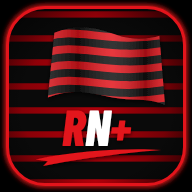
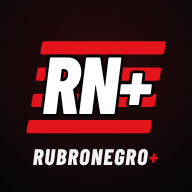
Ícone novo: RN+ sobre faixas vermelhas, com RUBRONEGRO+ embaixo
Claude-Session: https://claude.ai/code/session_01KURSQmz2BHfMakW4thM8Jz

diff --git a/sw.js b/sw.js
@@ -1,5 +1,5 @@
 // RubroNegro+ — permite abrir o app mesmo sem internet (mostra a última lista baixada).
-const VERSAO = 'flafan-v59';
+const VERSAO = 'flafan-v60';
 const ARQUIVOS = ['./', 'index.html', 'styles.css', 'app.js', 'manifest.webmanifest', 'icons/icon-192.png', 'icons/icon-512.png',
   'fonts/inter-latin-variavel.woff2', 'fonts/barlow-latin-400-normal.woff2', 'fonts/barlow-latin-500-normal.woff2', 'fonts/barlow-latin-600-normal.woff2', 'fonts/barlow-latin-700-normal.woff2',
   'fonts/barlow-condensed-latin-600-normal.woff2', 'fonts/barlow-condensed-latin-700-normal.woff2', 'fonts/barlow-condensed-latin-800-normal.woff2', 'fonts/barlow-condensed-latin-800-italic.woff2'];
